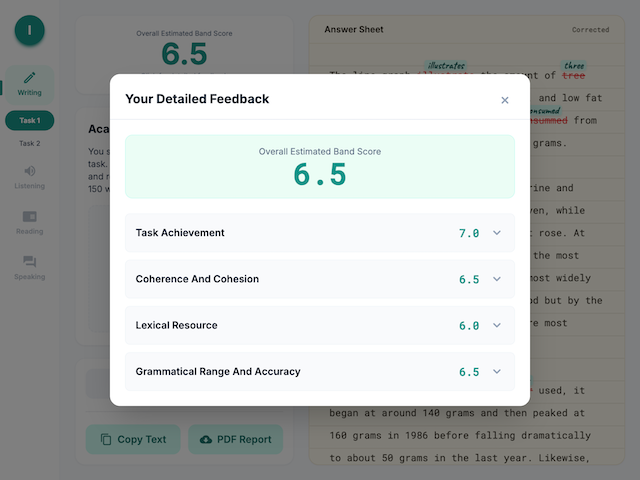
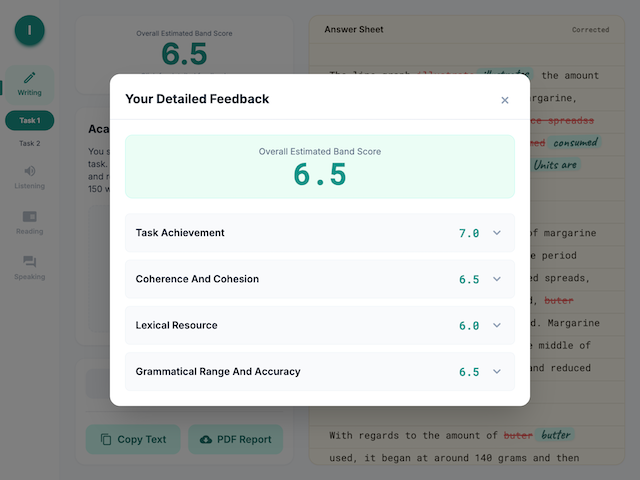
refactor: Styles for grading and updating screenshots

diff --git a/src/index.css b/src/index.css
@@ -4,38 +4,25 @@
 
 body { font-family: 'Inter', system-ui, sans-serif; }
 
-.handwritten {
-    font-family: 'Caveat', cursive;
-    color: #115e59;
-    background-color: #ccfbf1d1;
-    padding: 0 0.3em;
-    border-radius: 4px;
-    box-shadow: 0 1px 3px rgba(0,0,0,0.1);
-    position: absolute;
-    left: 50%;
-    bottom: 80%;
-    line-height: 1em;
-    transform: translateX(-50%) translateY(4px);
-    white-space: nowrap;
-    font-size: 1.1em;
-    font-weight: 700;
-    pointer-events: none;
-}
-
-del {
+.graded-essay del {
     color: #ef4444;
-    text-decoration: none;
-    background-color: transparent;
-    position: relative;
-    display: inline-block;
+    text-decoration: line-through;
+    text-decoration-thickness: 2px;
+    opacity: 0.85;
 }
 
-del::after {
-    content: '';
-    position: absolute;
-    left: 0;
-    right: 0;
-    top: 50%;
-    border-bottom: 1.5px solid #ef4444;
-    pointer-events: none;
+.graded-essay .handwritten {
+    font-family: 'Caveat', cursive;
+    font-weight: 700;
+    font-size: 1.4em;
+    color: #115e59;
+    background-color: #ccfbf1;
+    padding: 0 0.4em;
+    margin: 0 3px;
+    border-radius: 7px;
+    line-height: 1;
+    display: inline-block;
+    transform: rotate(-1.5deg);
+    box-shadow: 0 1px 3px rgba(0,0,0,0.08);
+    text-decoration: none;
 }
